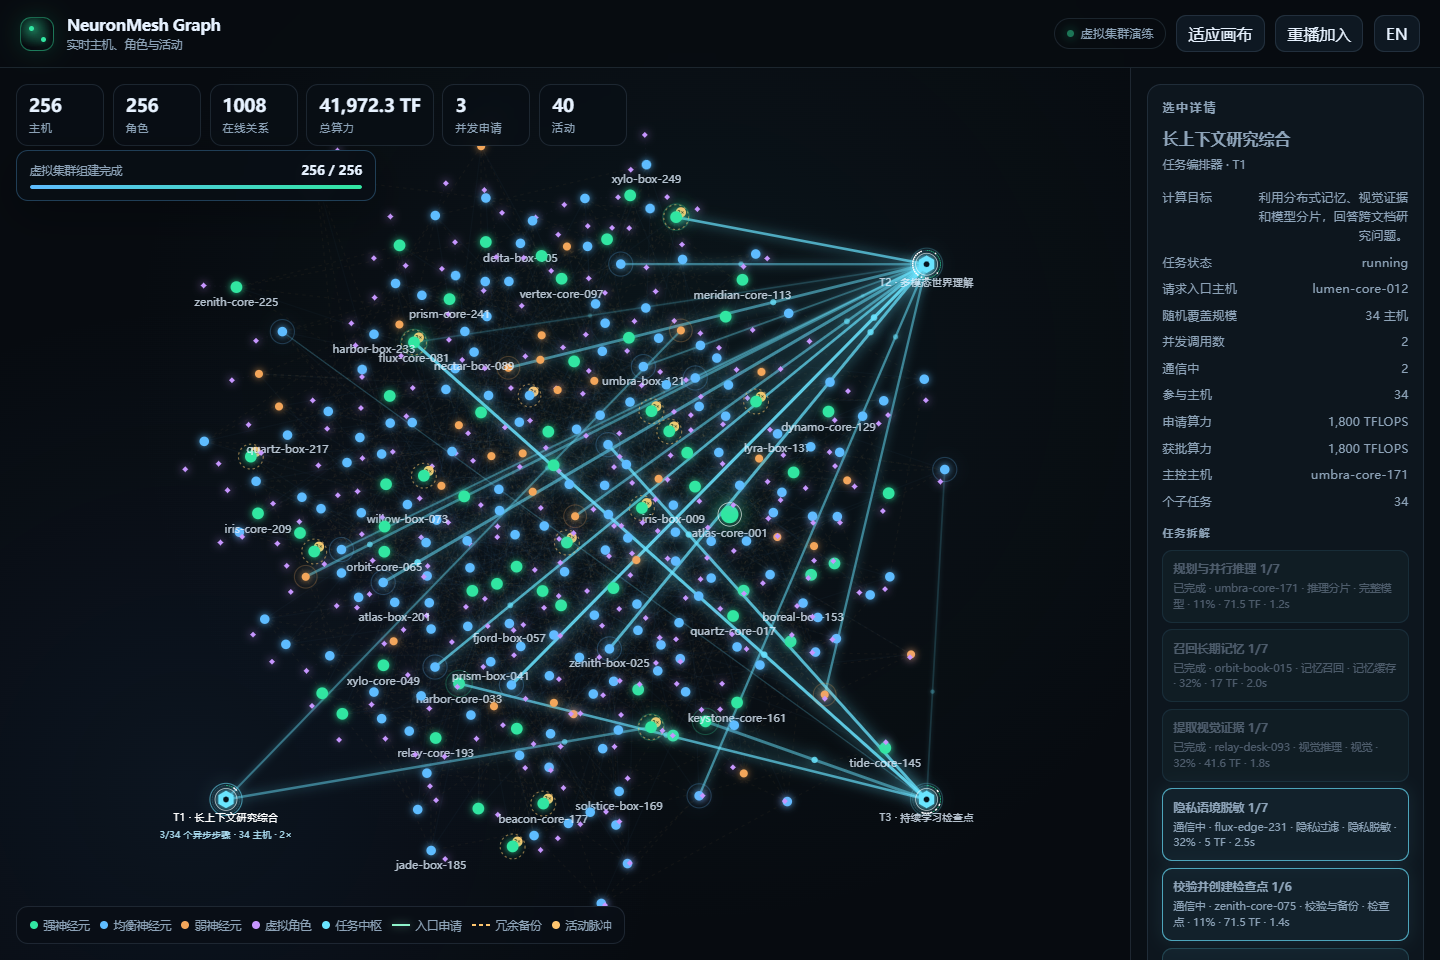
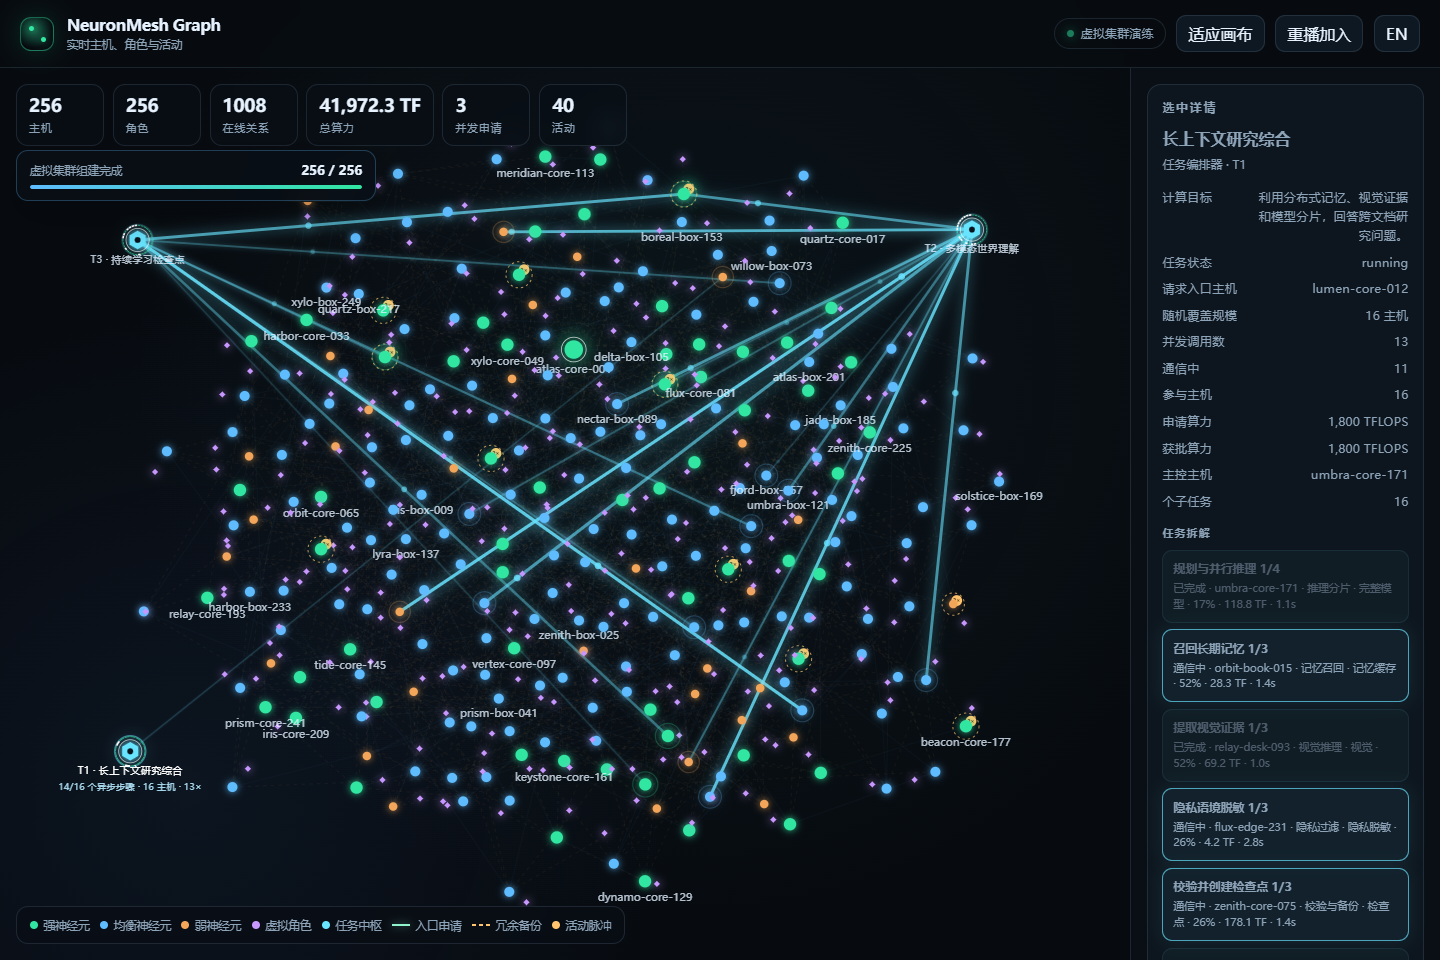
Create chaos-first 256-node layout

diff --git a/docs/graph-demo.html b/docs/graph-demo.html
@@ -716,6 +716,7 @@
       let coverageDeck = [];
       let coverageCursor = 0;
       let coverageRandomState = 0x9e3779b9;
+      let layoutSeed = 0x85ebca6b;
 
       const canvas = document.getElementById("graphCanvas");
       const ctx = canvas.getContext("2d");
@@ -1174,6 +1175,7 @@
             id: hostId,
             node_id: `demo-${i + 1}`,
             host_index: i,
+            region_index: regionIndex,
             kind: "host",
             label,
             is_local: i === 0,
@@ -1262,14 +1264,32 @@
         };
       }
 
-      function demoSpawnPosition(index) {
+      function seededUnit(salt) {
+        const value = Math.sin((layoutSeed + salt * 97) * 12.9898) * 43758.5453;
+        return value - Math.floor(value);
+      }
+
+      function demoHomePosition(index) {
         const width = canvas.clientWidth || 800;
         const height = canvas.clientHeight || 600;
-        const angle = index * 2.399963229728653;
-        const radius = Math.max(width, height) * (0.52 + (index % 5) * 0.035);
         return {
-          x: width / 2 + Math.cos(angle) * radius,
-          y: height / 2 + Math.sin(angle) * radius,
+          x: width * (0.1 + seededUnit(index + 101) * 0.8),
+          y: height * (0.12 + seededUnit(index + 211) * 0.74),
+        };
+      }
+
+      function demoSpawnPosition(index, home) {
+        const width = canvas.clientWidth || 800;
+        const height = canvas.clientHeight || 600;
+        const centerX = width / 2;
+        const centerY = height / 2;
+        const angle =
+          Math.atan2(home.y - centerY, home.x - centerX) +
+          (seededUnit(index + 307) - 0.5) * 1.3;
+        const distance = Math.max(width, height) * (0.58 + seededUnit(index + 401) * 0.16);
+        return {
+          x: centerX + Math.cos(angle) * distance,
+          y: centerY + Math.sin(angle) * distance,
         };
       }
 
@@ -1570,17 +1590,10 @@
       function chooseTaskPosition() {
         const width = canvas.clientWidth || 800;
         const height = canvas.clientHeight || 600;
-        const candidates = [
-          [0.18, 0.22],
-          [0.5, 0.17],
-          [0.82, 0.22],
-          [0.18, 0.55],
-          [0.5, 0.52],
-          [0.82, 0.55],
-          [0.2, 0.82],
-          [0.5, 0.82],
-          [0.82, 0.82],
-        ];
+        const candidates = Array.from({ length: 48 }, () => [
+          0.1 + demoRandom() * 0.8,
+          0.14 + demoRandom() * 0.74,
+        ]);
         const anchors = nodes.filter(
           (node) => node.kind === "host" || node.kind === "task",
         );
@@ -1720,11 +1733,14 @@
         const sourceHost = demoPlan.hosts[index];
         const sourceRole = demoPlan.roles[index];
         const now = Date.now() / 1000 + clockOffset;
-        const spawn = demoSpawnPosition(index);
+        const home = demoHomePosition(index);
+        const spawn = demoSpawnPosition(index, home);
         const host = {
           ...sourceHost,
           x: spawn.x,
           y: spawn.y,
+          home_x: home.x,
+          home_y: home.y,
           vx: 0,
           vy: 0,
           radius: radiusForNode(sourceHost),
@@ -1897,6 +1913,7 @@
         coverageDeck = [];
         coverageCursor = 0;
         coverageRandomState = (Date.now() ^ Math.imul(demoGeneration, 2654435761)) >>> 0;
+        layoutSeed = (Date.now() ^ Math.imul(demoGeneration + 7, 2246822519)) >>> 0;
         demoPlan = buildFleetPlan();
         clockOffset = 0;
         scale = 1;
@@ -2350,8 +2367,11 @@
         const repulsion = veryDense ? 900 : dense ? 2850 : 6200;
         const forceNodes = nodes.filter((node) => node.kind !== "role");
         for (const node of nodes) {
-          node.fx = (centerX - node.x) * (veryDense ? 0.00038 : dense ? 0.00024 : 0.00018);
-          node.fy = (centerY - node.y) * (veryDense ? 0.00038 : dense ? 0.00024 : 0.00018);
+          const anchorX = node.home_x ?? centerX;
+          const anchorY = node.home_y ?? centerY;
+          const anchorStrength = veryDense ? 0.00075 : dense ? 0.00042 : 0.00022;
+          node.fx = (anchorX - node.x) * anchorStrength;
+          node.fy = (anchorY - node.y) * anchorStrength;
         }
         for (let i = 0; i < forceNodes.length; i += 1) {
           for (let j = i + 1; j < forceNodes.length; j += 1) {

diff --git a/neuron_mesh/graph.html b/neuron_mesh/graph.html
@@ -716,6 +716,7 @@
       let coverageDeck = [];
       let coverageCursor = 0;
       let coverageRandomState = 0x9e3779b9;
+      let layoutSeed = 0x85ebca6b;
 
       const canvas = document.getElementById("graphCanvas");
       const ctx = canvas.getContext("2d");
@@ -1174,6 +1175,7 @@
             id: hostId,
             node_id: `demo-${i + 1}`,
             host_index: i,
+            region_index: regionIndex,
             kind: "host",
             label,
             is_local: i === 0,
@@ -1262,14 +1264,32 @@
         };
       }
 
-      function demoSpawnPosition(index) {
+      function seededUnit(salt) {
+        const value = Math.sin((layoutSeed + salt * 97) * 12.9898) * 43758.5453;
+        return value - Math.floor(value);
+      }
+
+      function demoHomePosition(index) {
         const width = canvas.clientWidth || 800;
         const height = canvas.clientHeight || 600;
-        const angle = index * 2.399963229728653;
-        const radius = Math.max(width, height) * (0.52 + (index % 5) * 0.035);
         return {
-          x: width / 2 + Math.cos(angle) * radius,
-          y: height / 2 + Math.sin(angle) * radius,
+          x: width * (0.1 + seededUnit(index + 101) * 0.8),
+          y: height * (0.12 + seededUnit(index + 211) * 0.74),
+        };
+      }
+
+      function demoSpawnPosition(index, home) {
+        const width = canvas.clientWidth || 800;
+        const height = canvas.clientHeight || 600;
+        const centerX = width / 2;
+        const centerY = height / 2;
+        const angle =
+          Math.atan2(home.y - centerY, home.x - centerX) +
+          (seededUnit(index + 307) - 0.5) * 1.3;
+        const distance = Math.max(width, height) * (0.58 + seededUnit(index + 401) * 0.16);
+        return {
+          x: centerX + Math.cos(angle) * distance,
+          y: centerY + Math.sin(angle) * distance,
         };
       }
 
@@ -1570,17 +1590,10 @@
       function chooseTaskPosition() {
         const width = canvas.clientWidth || 800;
         const height = canvas.clientHeight || 600;
-        const candidates = [
-          [0.18, 0.22],
-          [0.5, 0.17],
-          [0.82, 0.22],
-          [0.18, 0.55],
-          [0.5, 0.52],
-          [0.82, 0.55],
-          [0.2, 0.82],
-          [0.5, 0.82],
-          [0.82, 0.82],
-        ];
+        const candidates = Array.from({ length: 48 }, () => [
+          0.1 + demoRandom() * 0.8,
+          0.14 + demoRandom() * 0.74,
+        ]);
         const anchors = nodes.filter(
           (node) => node.kind === "host" || node.kind === "task",
         );
@@ -1720,11 +1733,14 @@
         const sourceHost = demoPlan.hosts[index];
         const sourceRole = demoPlan.roles[index];
         const now = Date.now() / 1000 + clockOffset;
-        const spawn = demoSpawnPosition(index);
+        const home = demoHomePosition(index);
+        const spawn = demoSpawnPosition(index, home);
         const host = {
           ...sourceHost,
           x: spawn.x,
           y: spawn.y,
+          home_x: home.x,
+          home_y: home.y,
           vx: 0,
           vy: 0,
           radius: radiusForNode(sourceHost),
@@ -1897,6 +1913,7 @@
         coverageDeck = [];
         coverageCursor = 0;
         coverageRandomState = (Date.now() ^ Math.imul(demoGeneration, 2654435761)) >>> 0;
+        layoutSeed = (Date.now() ^ Math.imul(demoGeneration + 7, 2246822519)) >>> 0;
         demoPlan = buildFleetPlan();
         clockOffset = 0;
         scale = 1;
@@ -2350,8 +2367,11 @@
         const repulsion = veryDense ? 900 : dense ? 2850 : 6200;
         const forceNodes = nodes.filter((node) => node.kind !== "role");
         for (const node of nodes) {
-          node.fx = (centerX - node.x) * (veryDense ? 0.00038 : dense ? 0.00024 : 0.00018);
-          node.fy = (centerY - node.y) * (veryDense ? 0.00038 : dense ? 0.00024 : 0.00018);
+          const anchorX = node.home_x ?? centerX;
+          const anchorY = node.home_y ?? centerY;
+          const anchorStrength = veryDense ? 0.00075 : dense ? 0.00042 : 0.00022;
+          node.fx = (anchorX - node.x) * anchorStrength;
+          node.fy = (anchorY - node.y) * anchorStrength;
         }
         for (let i = 0; i < forceNodes.length; i += 1) {
           for (let j = i + 1; j < forceNodes.length; j += 1) {

diff --git a/docs/DEMO.md b/docs/DEMO.md
@@ -83,8 +83,14 @@ the browser and never writes it to the node database. The animation introduces
 256 heterogeneous hosts in sequence. Select any host to inspect its CPU, memory,
 accelerator, storage, network, compute estimate, capability tags, failure domain
 and two cross-domain redundancy peers. Purple diamond nodes represent the Agent
-hosted on each machine. This is a visual rehearsal, not evidence of 50 physical
+hosted on each machine. This is a visual rehearsal, not evidence of 256 physical
 nodes or pledged capacity.
+
+The first 256-host layout intentionally uses a chaos-first cloud instead of
+rings, grids or domain grouping. Per-host target points and off-screen entry
+vectors are randomized per run. Failure-domain metadata remains visible in host
+details but does not influence this layout yet; a grouped view can be added as a
+separate mode later.
 
 After the fleet is assembled, a cyan task hub appears. The demo cycles through
 five objectives such as long-context research, multimodal understanding,

diff --git a/docs/DEMO.zh-CN.md b/docs/DEMO.zh-CN.md
@@ -83,6 +83,10 @@ python scripts/graph_demo.py --open
 节点表示运行在该主机上的 Agent。该页面仅用于视觉演练，不代表已经存在 256 台
 物理节点或真实资源承诺。
 
+256 节点当前采用“混沌云”布局，不使用固定圆环、网格或故障域分组。每台主机
+的目标位置和屏外飞入方向都会随机变化；故障域仍显示在主机详情中，但不参与
+当前布局。以后可以增加独立的域/组视图模式。
+
 主机集群组建完成后会出现青色任务中枢。演示会在长上下文研究、多模态理解、
 持续学习、边缘响应和记忆修复等五类计算目标之间轮换。每个目标都会拆分为有
 明确能力要求的子任务，并通过随机覆盖序列为每次计划分配 1–40 台主机。点击

diff --git a/README.md b/README.md
@@ -110,8 +110,8 @@ Architecture documents:
 - `status`/`drain` CLI commands and `/readyz`;
 - two-node Docker Compose, tests and GitHub Actions CI.
 - Obsidian-style live graph of hosts, virtual roles and node-to-node activity;
-- a deterministic 256-host join animation with hardware, compute, capabilities,
-  Agent roles and cross-failure-domain redundancy previews;
+- a deterministic 256-host join animation with a chaos-first cloud layout while
+  retaining failure-domain metadata for a future grouped view;
 - task-driven asynchronous dispatch with random coverage from 1 to 40 hosts and
   visible per-host subtask assignment across failure domains;
 - up to three simultaneous ingress-host resource requests with proportional

diff --git a/CHANGELOG.zh-CN.md b/CHANGELOG.zh-CN.md
@@ -13,6 +13,8 @@
 - 增加多入口并发申请、共享主机租约、比例资源分配视图和任务自动替换。
 - 增加 SQLite 持久化任务协调调度器和需要认证的 `/v1/tasks` 创建、列表与详情接口。
 - 增加 1–40 台主机的随机覆盖计划、低覆盖阶段的串行合并和高覆盖阶段的分片。
+- 将规则的 256 节点放射布局替换为混沌云、独立屏外飞入向量和随缩放变化的
+  标签抽样，故障域暂只保留为元数据。
 - 增加随机 1–20 台主机的并发通信窗口、独立主机服务时长、错峰完成和空槽即时补位。
 
 ## 0.2.0 - 2026-10-30

diff --git a/CHANGELOG.md b/CHANGELOG.md
@@ -17,6 +17,8 @@
   `/v1/tasks` create/list/detail APIs.
 - Add shuffled 1–40 host coverage plans with bundled low-resource stages and
   sharded high-coverage stages.
+- Replace the regular 256-node radial layout with a chaos-first host cloud,
+  independent off-screen entry vectors and zoom-dependent label sampling.
 - Add random 1–20-host concurrency windows with independent per-host service
   duration, staggered completion and just-in-time slot refill.
 

diff --git a/ROADMAP.md b/ROADMAP.md
@@ -29,6 +29,7 @@ This release is not a complete implementation of the architecture baseline.
 - [x] versioned interface inventory;
 - [x] architecture threat model and residual-risk register;
 - [x] observable quality scenarios and architecture-gated roadmap.
+- [ ] add an optional failure-domain/group clustering mode for the 256-node visualization.
 
 ## v0.3.0 — Architecture and trust baseline
 

diff --git a/ROADMAP.zh-CN.md b/ROADMAP.zh-CN.md
@@ -29,6 +29,7 @@
 - [x] 版本化接口清单；
 - [x] 架构威胁模型和残余风险登记册；
 - [x] 可观测质量场景和按架构门槛组织的路线图。
+- [ ] 为 256 节点可视化增加可选的故障域/组聚类模式。
 
 ## v0.3.0 —— 架构与信任基线
 
